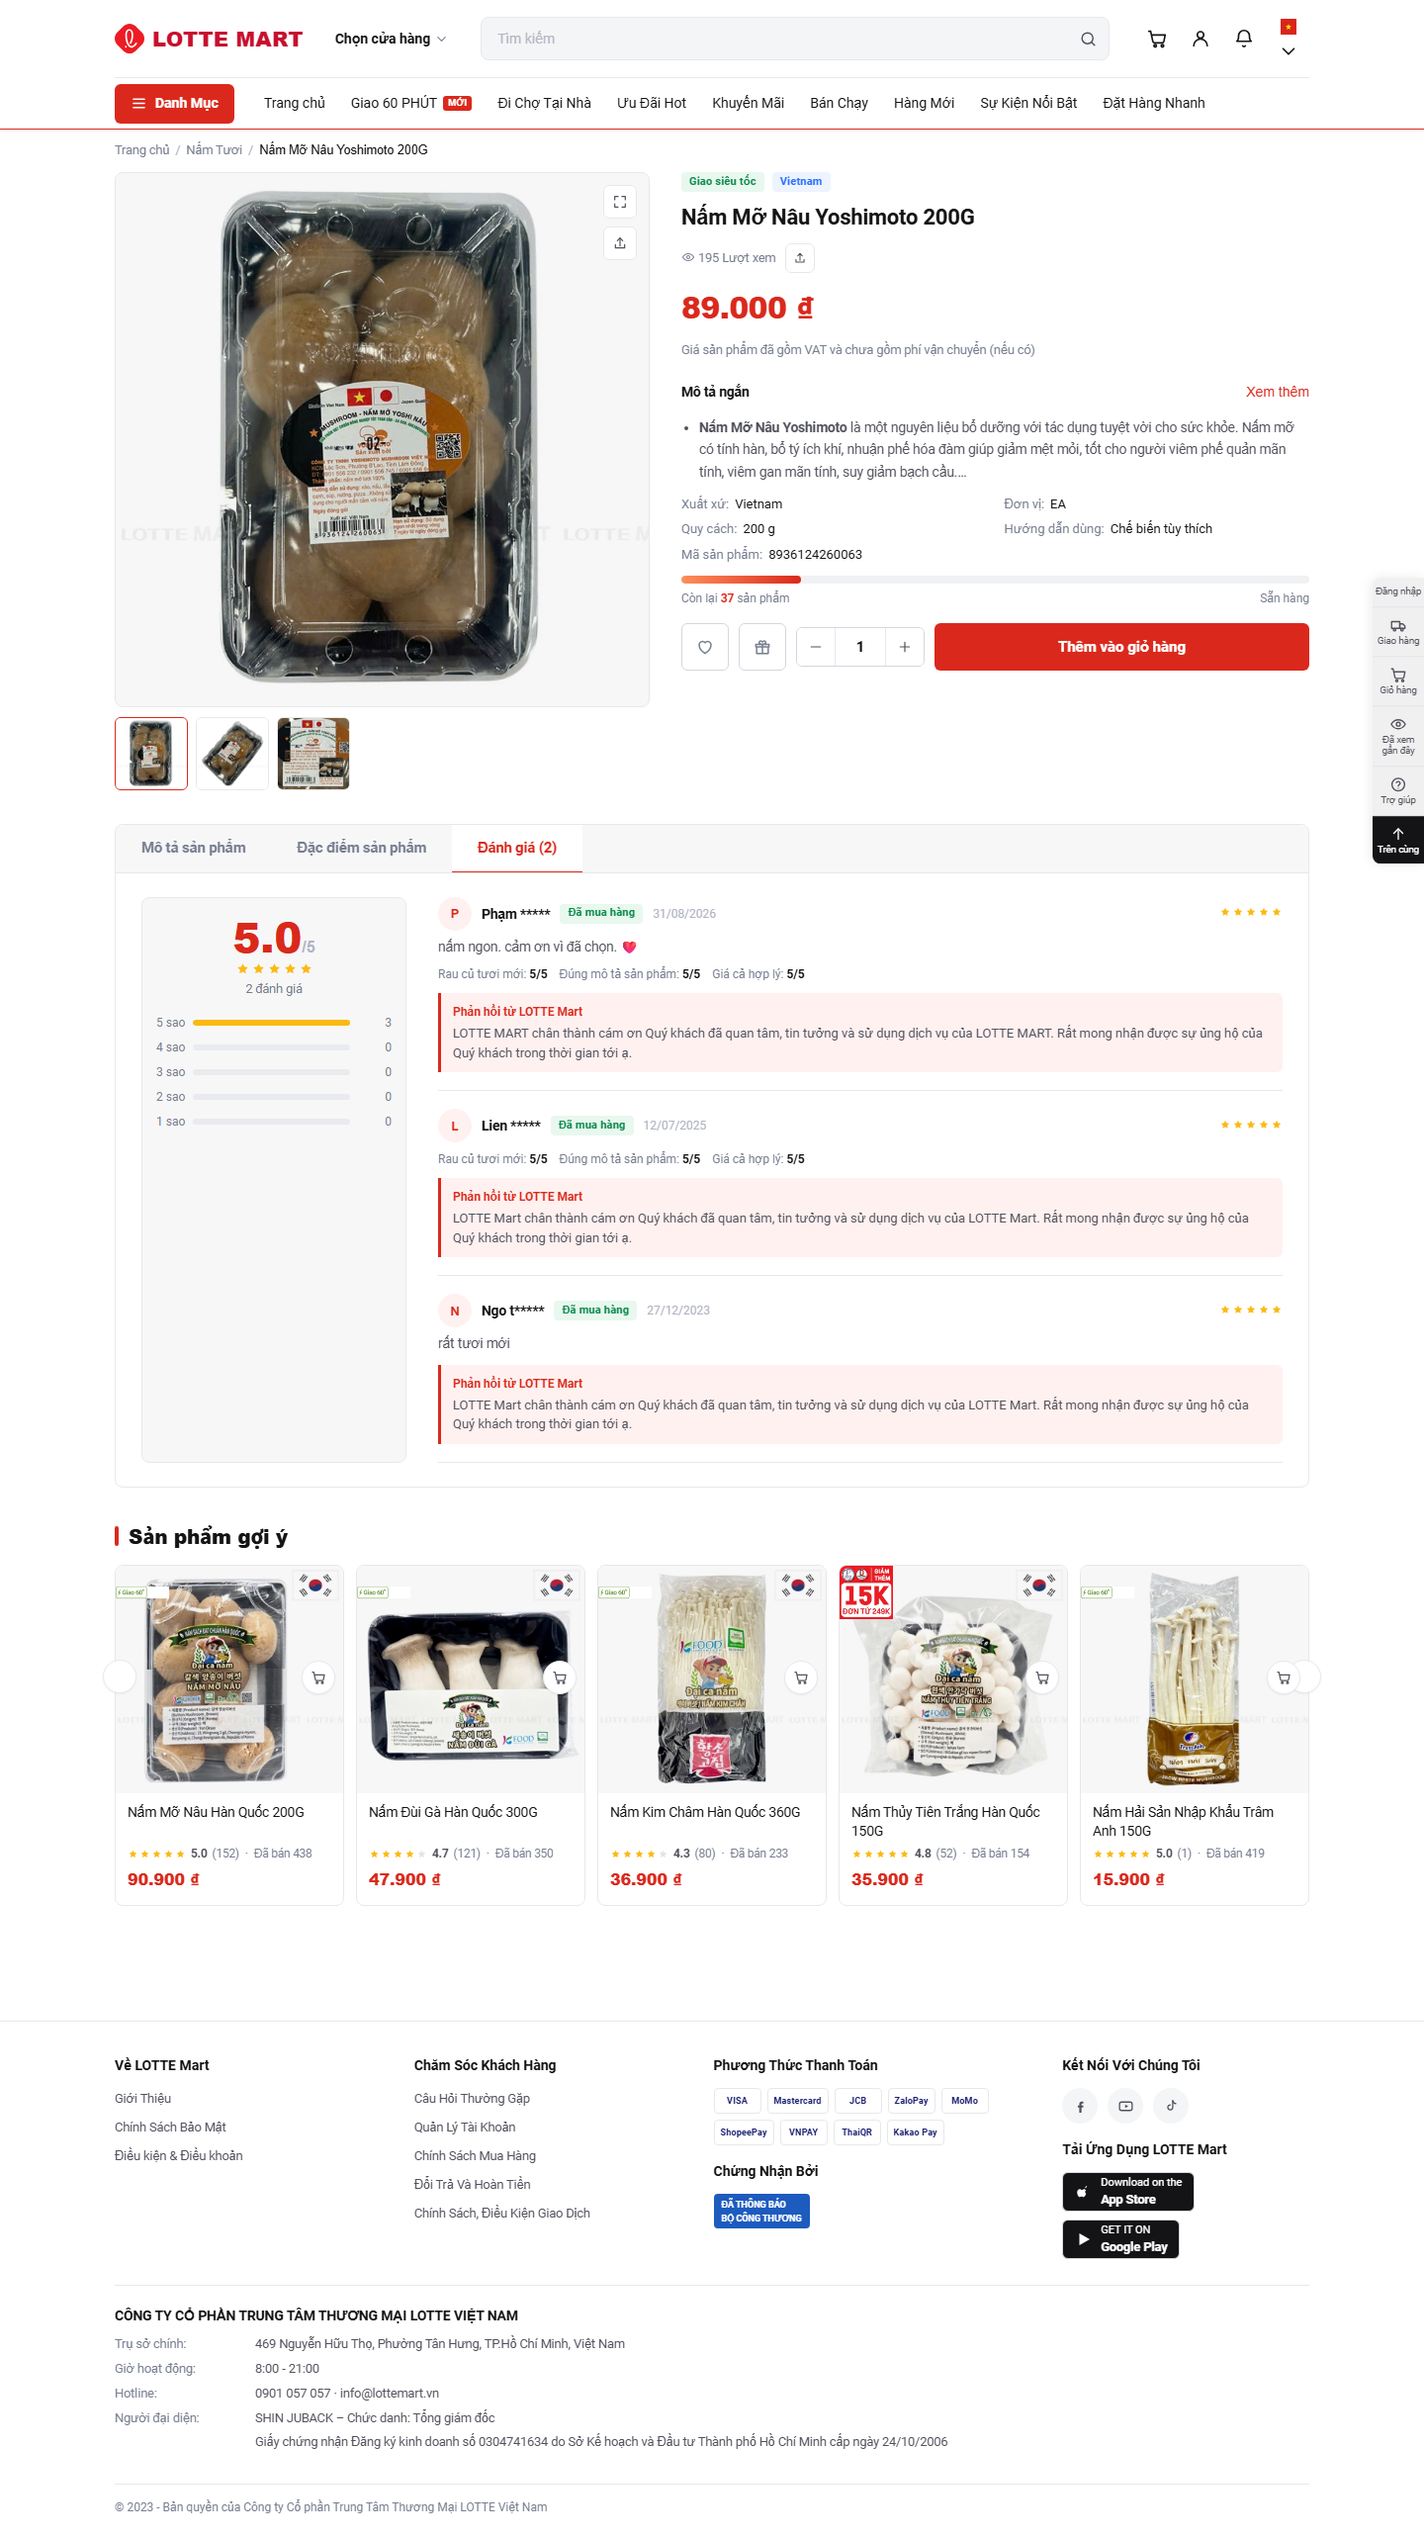
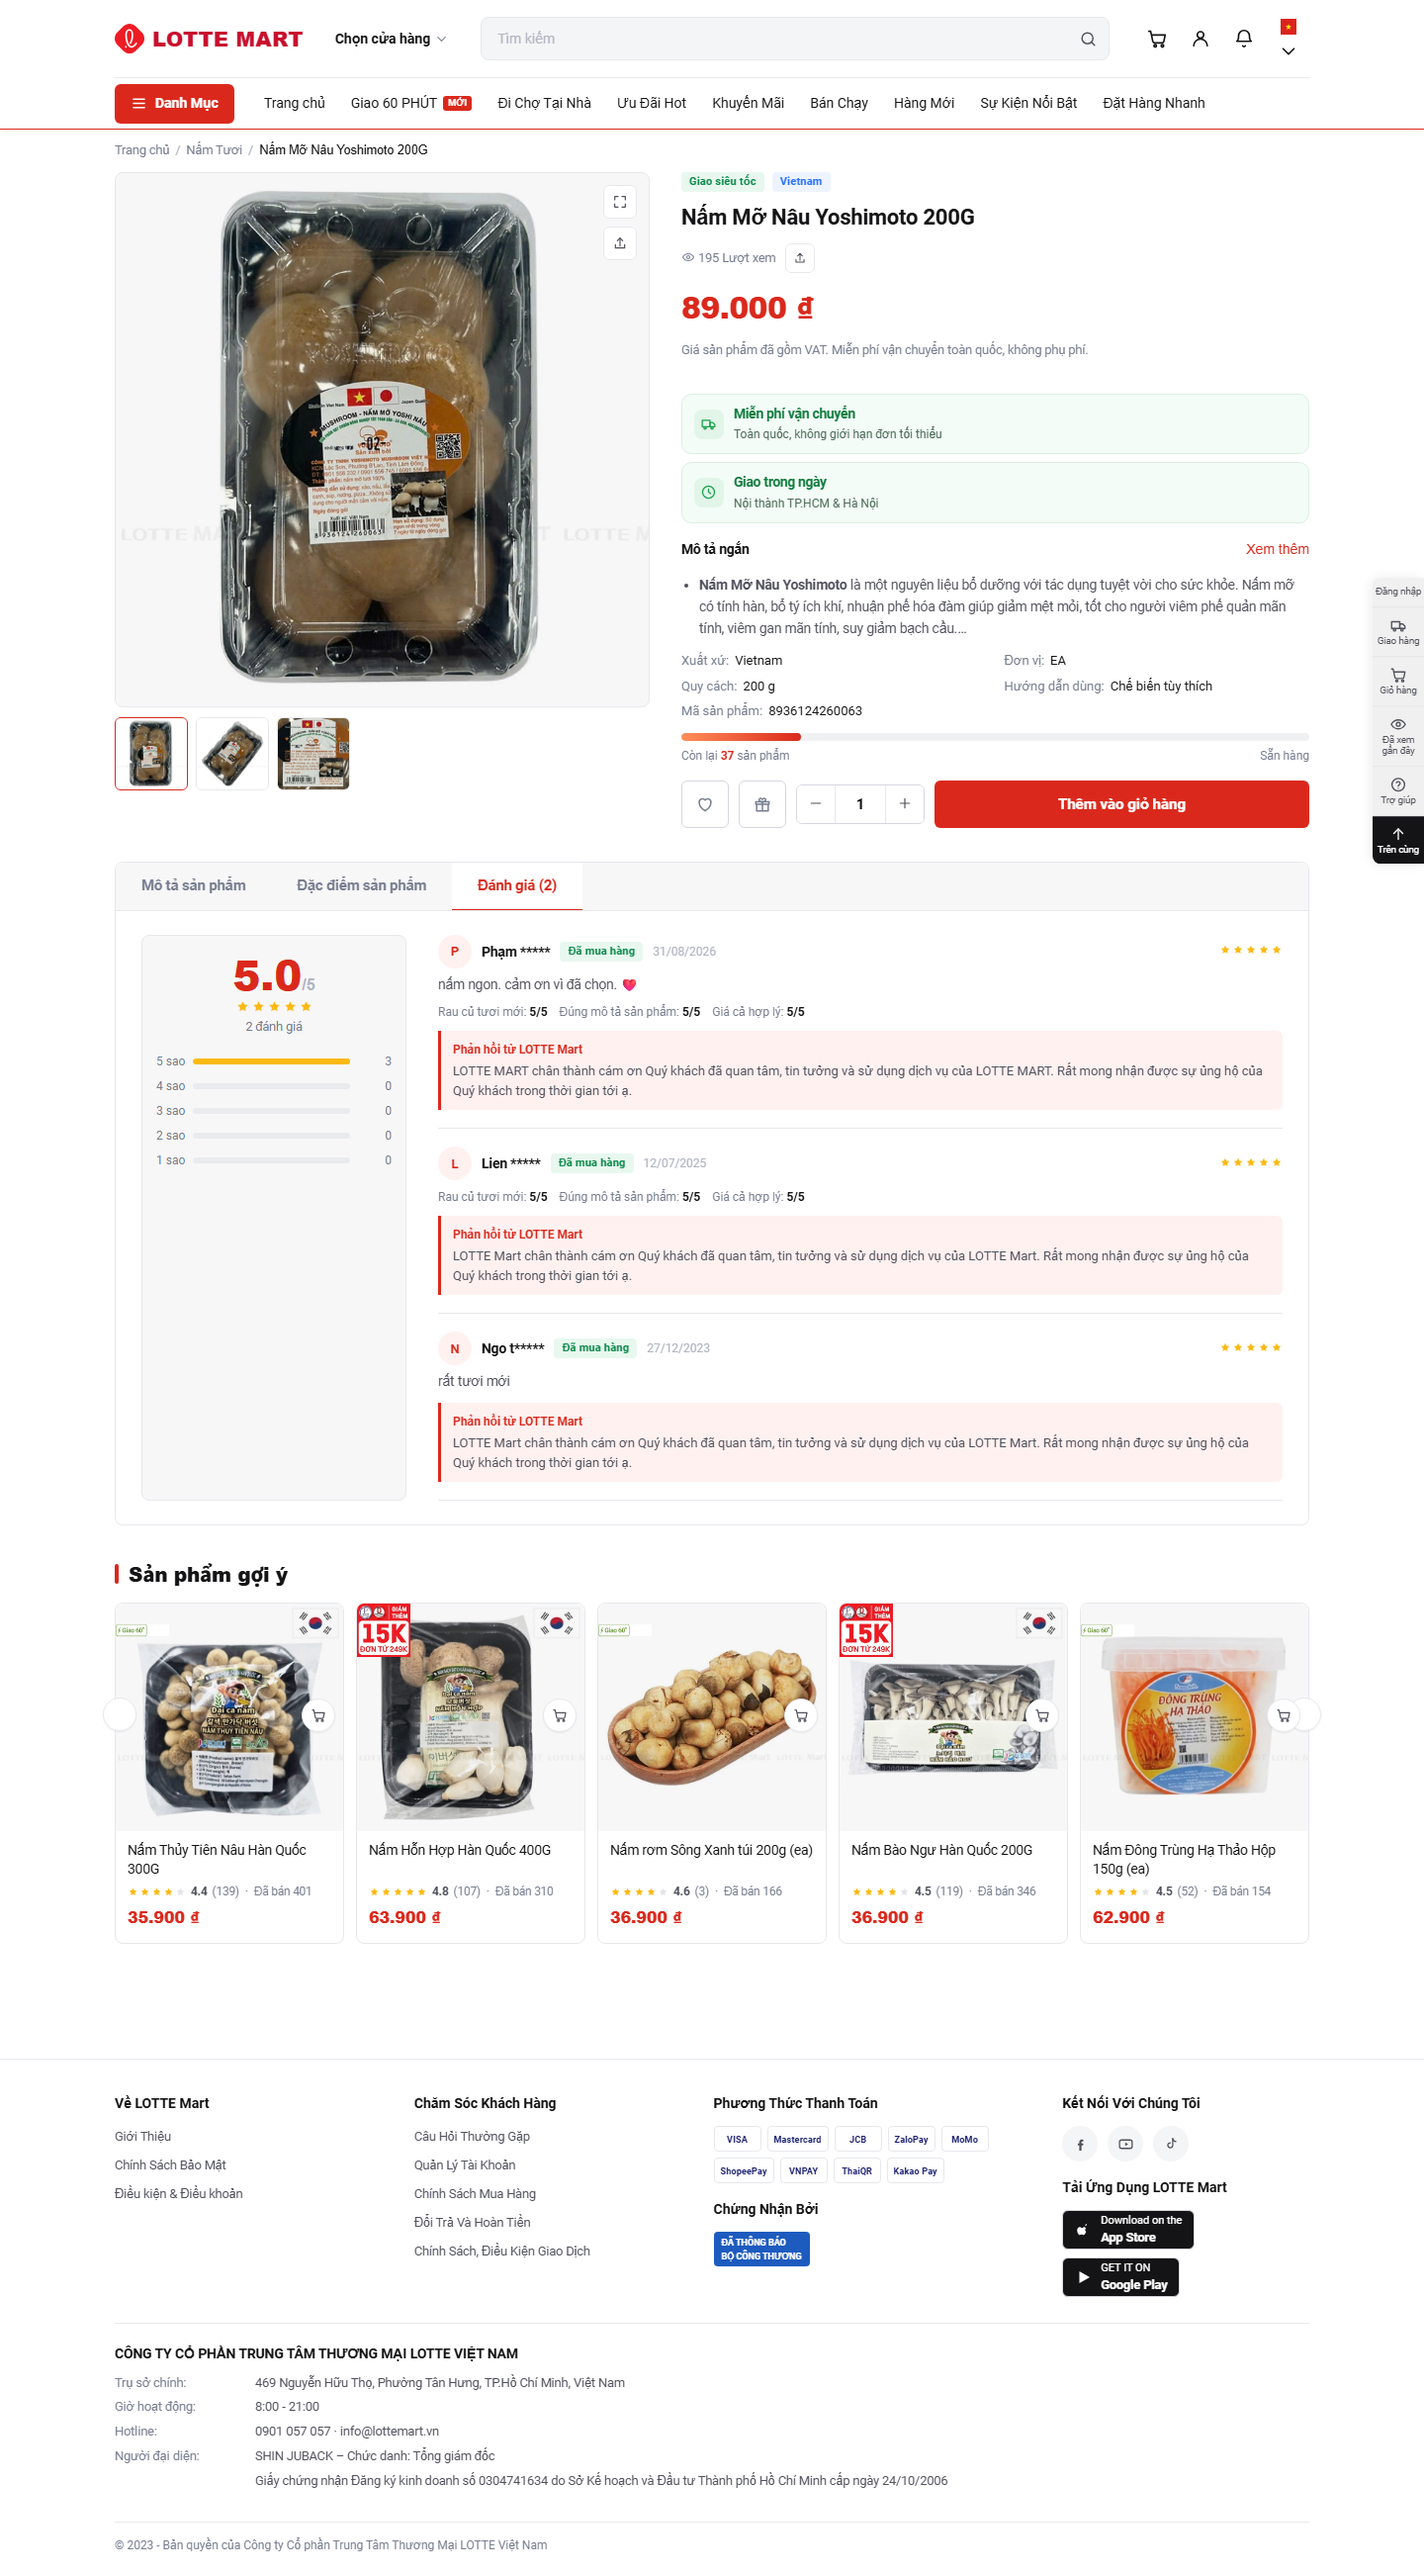
feat(pd): 商品详情页价格下方加「Miễn phí vận chuyển / Giao trong ngày」承诺条，并同步 VAT 说明

diff --git a/site/assets/base.css b/site/assets/base.css
@@ -1236,6 +1236,31 @@ p:last-child { margin-bottom: 0; }
   font-weight: 700;
 }
 .lm-pd-note { font-size: 12.5px; color: var(--muted); }
+
+/* 详情页服务承诺：免运费 / 当日达 */
+.lm-pd-perks { display: grid; gap: 8px; margin: 12px 0 4px; }
+.lm-pd-perk {
+  display: flex;
+  align-items: center;
+  gap: 10px;
+  padding: 9px 12px;
+  border: 1px solid #d9f0e1;
+  border-radius: 10px;
+  background: #f4fcf7;
+}
+.lm-pd-perk .ic {
+  display: grid;
+  place-items: center;
+  flex: none;
+  width: 30px;
+  height: 30px;
+  border-radius: 8px;
+  background: #e2f5e9;
+  color: #16a34a;
+}
+.lm-pd-perk .ic svg { width: 17px; height: 17px; stroke: currentColor; fill: none; stroke-width: 1.8; stroke-linecap: round; stroke-linejoin: round; }
+.lm-pd-perk b { display: block; font-size: 13.5px; color: #0f7b3d; letter-spacing: -0.01em; }
+.lm-pd-perk span { font-size: 12px; color: #4b6b58; }
 .lm-pd-desc { font-size: 13.5px; color: var(--text-2); line-height: 1.65; }
 .lm-pd-desc.clamped { display: -webkit-box; -webkit-line-clamp: 3; -webkit-box-orient: vertical; overflow: hidden; }
 .lm-pd-desc ul { margin: 8px 0 0 18px; list-style: disc; }

diff --git a/site/assets/product.js b/site/assets/product.js
@@ -36,7 +36,18 @@
   <span class="now">${LM.money(price)}</span>
   ${off > 0 && list > price ? `<span class="old">${LM.money(list)}</span><span class="off">-${off}%</span>` : ''}
 </div>
-<p class="lm-pd-note">Giá sản phẩm đã gồm VAT và chưa gồm phí vận chuyển (nếu có)</p>
+<p class="lm-pd-note">Giá sản phẩm đã gồm VAT. Miễn phí vận chuyển toàn quốc, không phụ phí.</p>
+
+<div class="lm-pd-perks">
+  <div class="lm-pd-perk">
+    <span class="ic">${LM.icon('truck')}</span>
+    <div><b>Miễn phí vận chuyển</b><span>Toàn quốc, không giới hạn đơn tối thiểu</span></div>
+  </div>
+  <div class="lm-pd-perk">
+    <span class="ic">${LM.icon('clock')}</span>
+    <div><b>Giao trong ngày</b><span>Nội thành TP.HCM &amp; Hà Nội</span></div>
+  </div>
+</div>
 
 <div>
   <div style="display:flex;align-items:center;justify-content:space-between;gap:10px;margin-bottom:6px">
